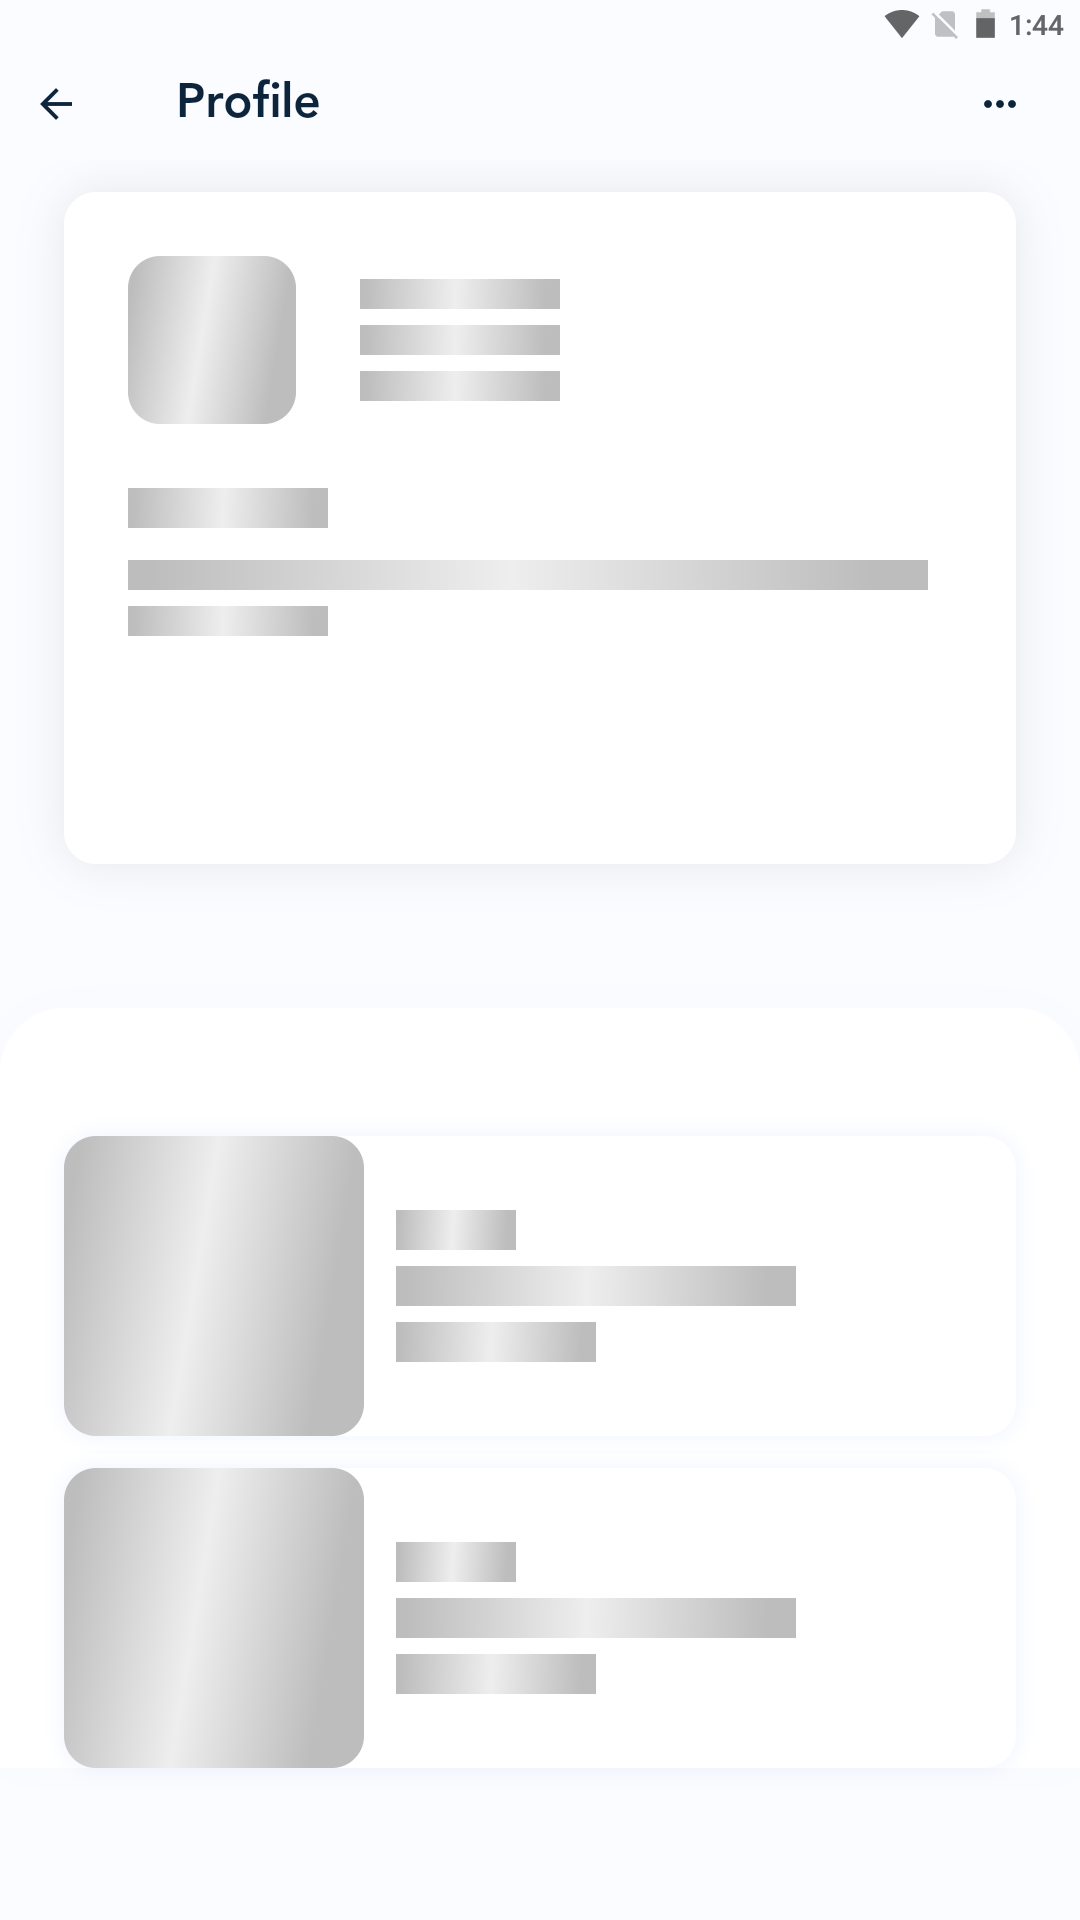
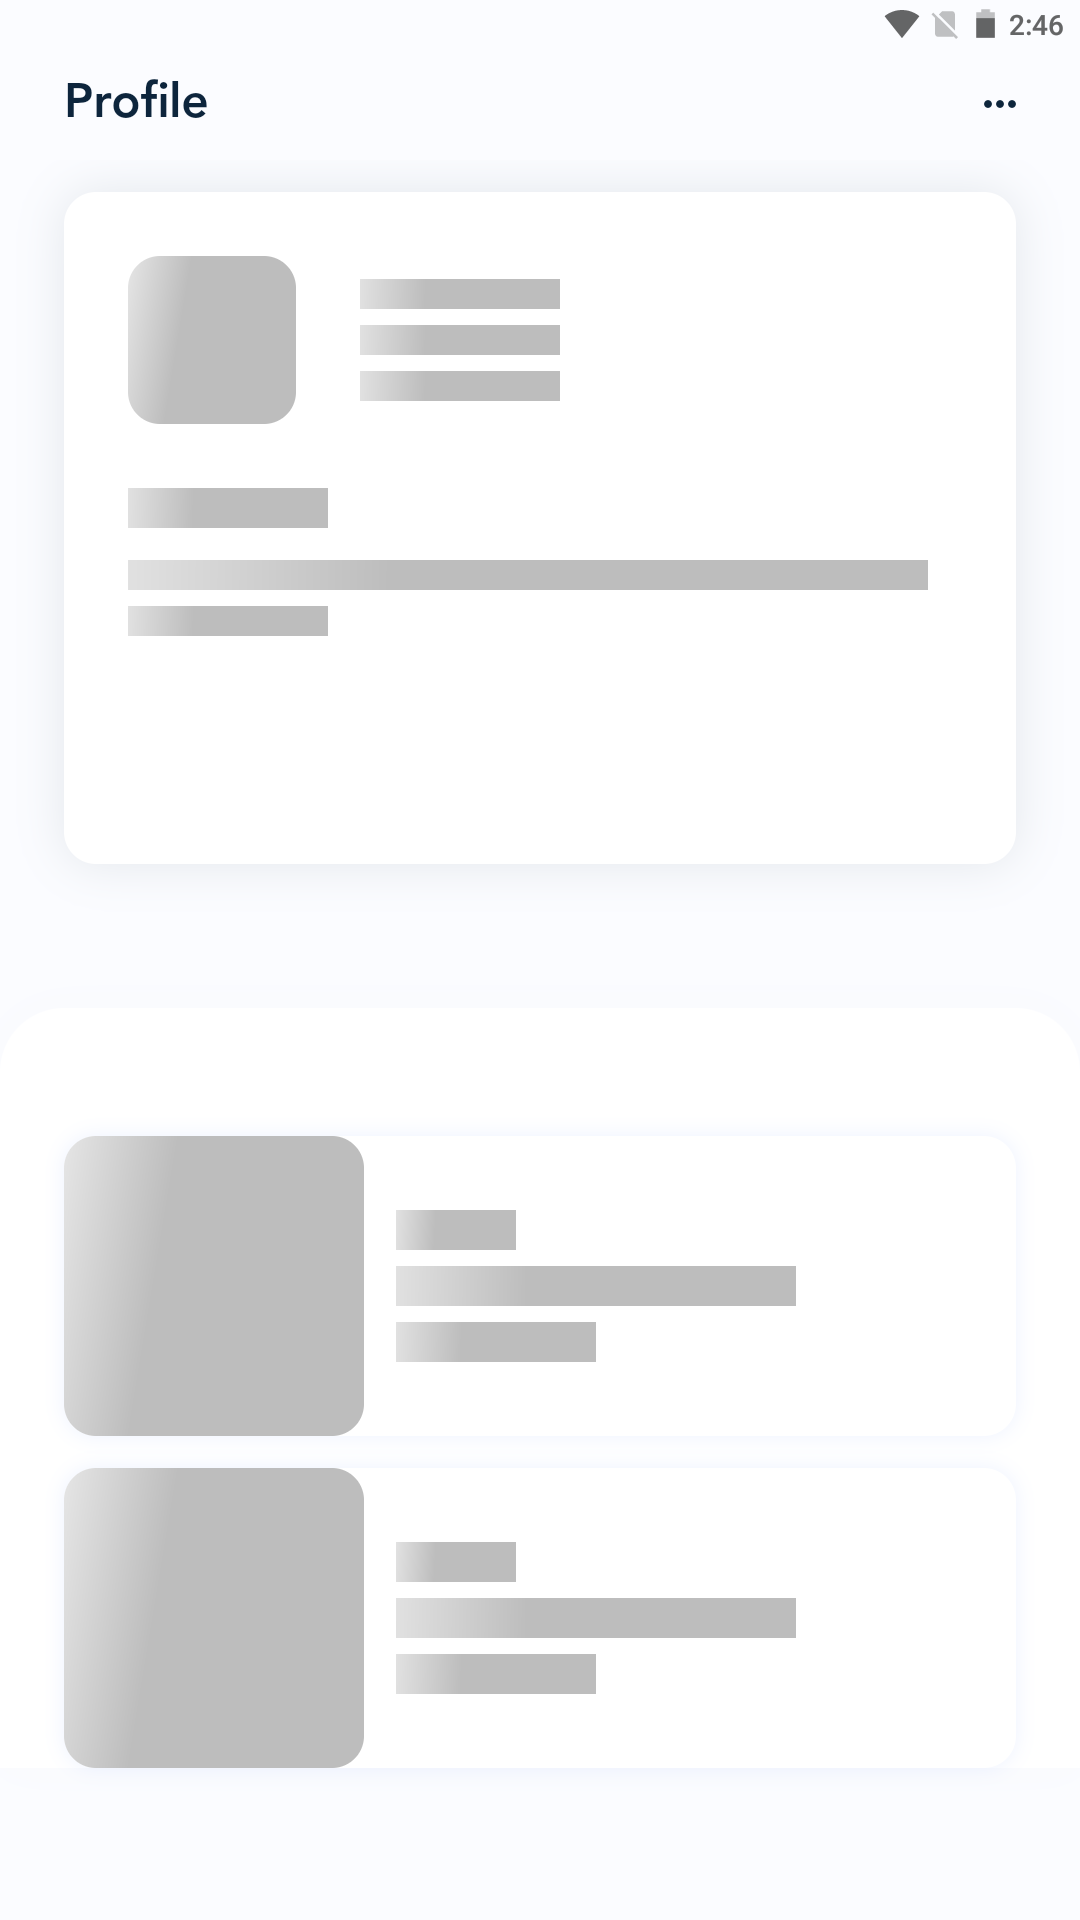
some changing in profile Screen

diff --git a/lib/src/view/screens/profile_screen/profile_view.dart b/lib/src/view/screens/profile_screen/profile_view.dart
@@ -59,6 +59,7 @@ class ProfileView extends StatelessWidget {
                   toolbarHeight: _kToolbarHeight,
                   elevation: 0,
                   backgroundColor: lightTheme.colorScheme.background,
+                  automaticallyImplyLeading: false,
                   title: Padding(
                     padding: const EdgeInsetsDirectional.only(start: 16),
                     child: Text(
@@ -70,11 +71,7 @@ class ProfileView extends StatelessWidget {
                     Padding(
                       padding: const EdgeInsetsDirectional.only(end: 16),
                       child: IconButton(
-                        onPressed: () {
-                          context
-                              .read<ProfileBloc>()
-                              .add(ProfileNavigateToBack(context: context));
-                        },
+                        onPressed: () {},
                         icon: const Icon(Icons.more_horiz_outlined),
                       ),
                     ),
@@ -217,6 +214,7 @@ class ProfileView extends StatelessWidget {
           backgroundColor: state.isScrolled
               ? lightTheme.colorScheme.background
               : lightTheme.colorScheme.background,
+          automaticallyImplyLeading: false,
           title: Padding(
             padding: const EdgeInsetsDirectional.only(start: 16),
             child: Text(
@@ -226,12 +224,9 @@ class ProfileView extends StatelessWidget {
           ),
           actions: [
             Padding(
-              padding: const EdgeInsetsDirectional.only(end: 16),
+              padding: const EdgeInsetsDirectional.only(end: 20),
               child: IconButton(
                 onPressed: () {
-                  context
-                      .read<ProfileBloc>()
-                      .add(ProfileNavigateToBack(context: context));
                 },
                 icon: const Icon(Icons.more_horiz_outlined),
               ),

diff --git a/lib/src/bloc/profile_bloc/profile_bloc.dart b/lib/src/bloc/profile_bloc/profile_bloc.dart
@@ -22,7 +22,6 @@ class ProfileBloc extends Bloc<ProfileEvent, ProfileState> {
     on<ProfilePostsButtonClicked>(_onPostsButtonClicked);
     on<ProfileFollowingButtonClicked>(_onFollowingButtonClicked);
     on<ProfileFollowersButtonClicked>(_onFollowersButtonClicked);
-    on<ProfileNavigateToBack>(_onNavigateToBack);
   }
 
   _onStarted(ProfileStarted event, Emitter<ProfileState> emit) async {
@@ -69,7 +68,5 @@ class ProfileBloc extends Bloc<ProfileEvent, ProfileState> {
     emit((state as ProfileSuccess).copyWith(isScrolled: event.isScrolled));
   }
 
-   _onNavigateToBack(ProfileNavigateToBack event, Emitter<ProfileState> emit) {
-    GoRouter.of(event.context).pop();
-  }
+
 }

diff --git a/lib/src/bloc/profile_bloc/profile_event.dart b/lib/src/bloc/profile_bloc/profile_event.dart
@@ -34,14 +34,4 @@ class ProfileFollowersButtonClicked extends ProfileEvent {
   List<Object> get props=> [];
 }
 
-class ProfileNavigateToBack extends ProfileEvent {
-
-  final BuildContext context;
-
-  ProfileNavigateToBack({required this.context});
-
-  @override
-  List<Object> get props=> [];
-
-}
 
